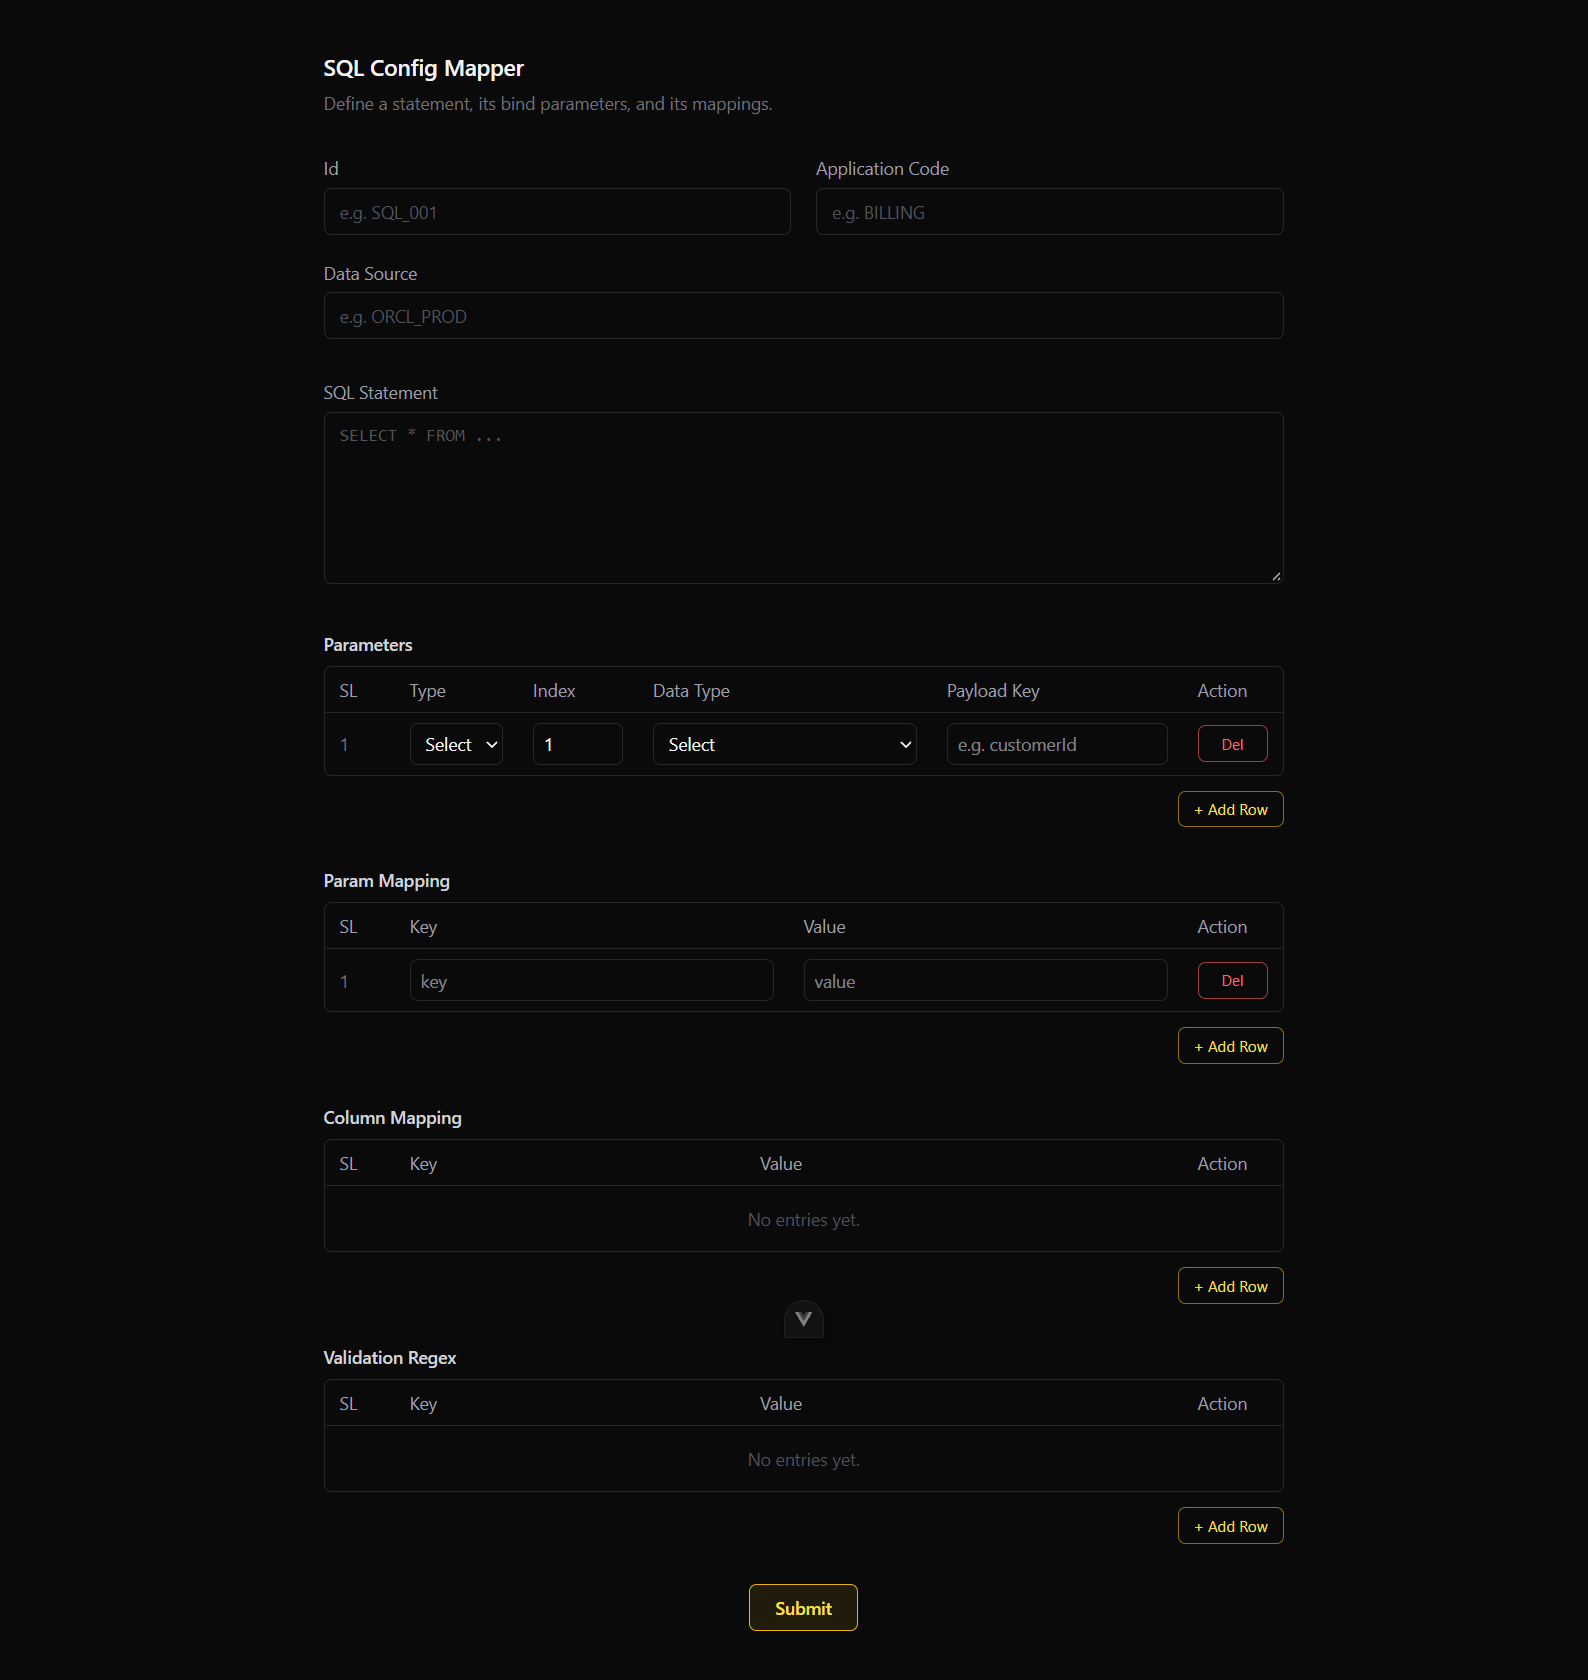
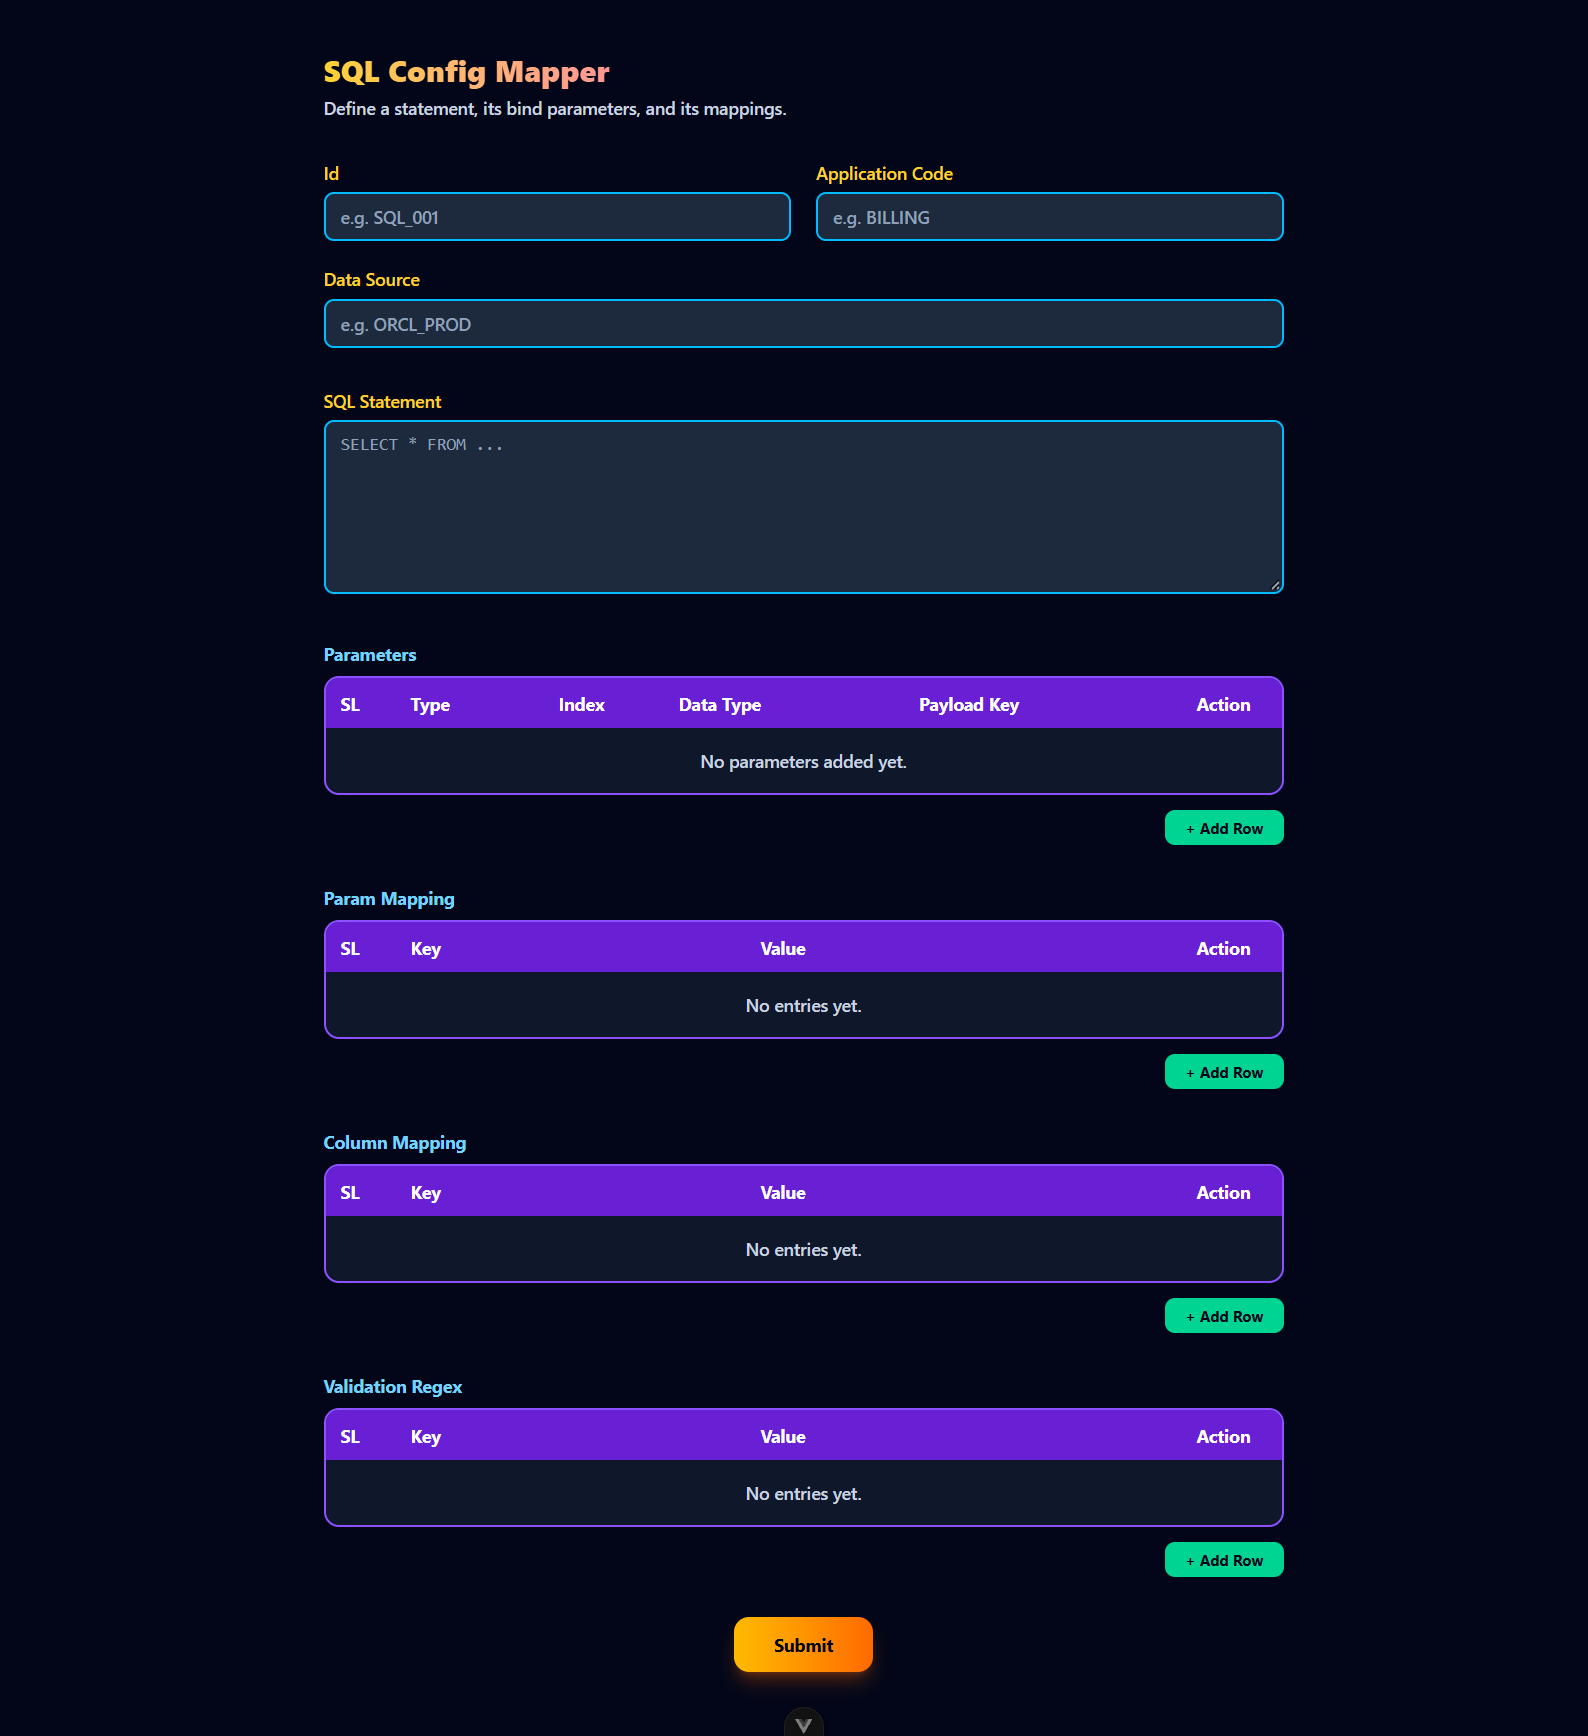
ui: black violet theme

diff --git a/src/components/neo/ParametersTable.vue b/src/components/neo/ParametersTable.vue
@@ -37,34 +37,34 @@ function isDuplicate(name: string) {
 
 <template>
   <div>
-    <div class="overflow-x-auto rounded-md border border-ink-600">
+    <div class="overflow-hidden rounded-xl border-2 border-violet-500 bg-slate-900">
       <table class="w-full border-collapse text-sm">
         <thead>
-          <tr class="border-b border-ink-600 text-left text-zinc-400">
-            <th class="w-14 px-3 py-2 font-normal">SL</th>
-            <th class="px-3 py-2 font-normal">Type</th>
-            <th class="w-24 px-3 py-2 font-normal">Index</th>
-            <th class="px-3 py-2 font-normal">Data Type</th>
-            <th class="px-3 py-2 font-normal">Payload Key</th>
-            <th class="w-20 px-3 py-2 font-normal">Action</th>
+          <tr class="bg-violet-600/80 text-left text-white">
+            <th class="w-14 px-3 py-2.5 font-bold">SL</th>
+            <th class="px-3 py-2.5 font-bold">Type</th>
+            <th class="w-24 px-3 py-2.5 font-bold">Index</th>
+            <th class="px-3 py-2.5 font-bold">Data Type</th>
+            <th class="px-3 py-2.5 font-bold">Payload Key</th>
+            <th class="w-20 px-3 py-2.5 font-bold">Action</th>
           </tr>
         </thead>
         <tbody>
           <tr v-if="!rows.length">
-            <td colspan="6" class="px-3 py-4 text-center text-zinc-600">
+            <td colspan="6" class="px-3 py-4 text-center font-medium text-slate-300">
               No parameters added yet.
             </td>
           </tr>
           <tr
             v-for="(row, i) in rows"
             :key="row._key"
-            class="border-b border-ink-700 last:border-0"
+            class="border-t border-violet-500/40 even:bg-slate-800/60"
           >
-            <td class="px-3 py-2 text-zinc-500">{{ i + 1 }}</td>
+            <td class="px-3 py-2 font-semibold text-sky-300">{{ i + 1 }}</td>
             <td class="px-3 py-2">
               <select
                 v-model="row.type"
-                class="w-full rounded-md border border-ink-600 bg-ink-900 px-2 py-1.5 text-zinc-100 outline-none focus:border-accent-500"
+                class="w-full rounded-lg border-2 border-sky-400 bg-slate-800 px-2 py-1.5 font-medium text-white outline-none transition-all focus:border-amber-300 focus:ring-4 focus:ring-amber-300/30"
               >
                 <option value="" disabled>Select</option>
                 <option v-for="opt in typeOptions" :key="opt.value" :value="opt.value">
@@ -76,13 +76,13 @@ function isDuplicate(name: string) {
               <input
                 v-model.number="row.position"
                 type="number"
-                class="w-full rounded-md border border-ink-600 bg-transparent px-2 py-1.5 text-zinc-100 outline-none focus:border-accent-500"
+                class="w-full rounded-lg border-2 border-sky-400 bg-slate-800 px-2 py-1.5 font-medium text-white outline-none transition-all focus:border-amber-300 focus:ring-4 focus:ring-amber-300/30"
               />
             </td>
             <td class="px-3 py-2">
               <select
                 v-model="row.dataType"
-                class="w-full rounded-md border border-ink-600 bg-ink-900 px-2 py-1.5 text-zinc-100 outline-none focus:border-accent-500"
+                class="w-full rounded-lg border-2 border-sky-400 bg-slate-800 px-2 py-1.5 font-medium text-white outline-none transition-all focus:border-amber-300 focus:ring-4 focus:ring-amber-300/30"
               >
                 <option value="" disabled>Select</option>
                 <option v-for="opt in dataTypeOptions" :key="opt.value" :value="opt.value">
@@ -95,15 +95,19 @@ function isDuplicate(name: string) {
                 v-model="row.name"
                 type="text"
                 placeholder="e.g. customerId"
-                class="w-full rounded-md border bg-transparent px-2 py-1.5 text-zinc-100 outline-none focus:border-accent-500"
-                :class="isDuplicate(row.name) ? 'border-red-400' : 'border-ink-600'"
+                class="w-full rounded-lg border-2 px-2 py-1.5 font-medium text-white placeholder-slate-400 outline-none transition-all"
+                :class="
+                  isDuplicate(row.name)
+                    ? 'border-rose-500 bg-rose-500/20 focus:ring-4 focus:ring-rose-400/30'
+                    : 'border-sky-400 bg-slate-800 focus:border-amber-300 focus:ring-4 focus:ring-amber-300/30'
+                "
               />
             </td>
             <td class="px-3 py-2">
               <button
                 type="button"
                 @click="removeRow(row._key)"
-                class="w-full rounded-md border border-red-400/60 px-2 py-1.5 text-xs text-red-400 transition-colors hover:bg-red-400/10"
+                class="w-full rounded-lg bg-rose-500 px-2 py-1.5 text-xs font-bold text-white transition-colors hover:bg-rose-400"
               >
                 Del
               </button>
@@ -117,13 +121,13 @@ function isDuplicate(name: string) {
       <button
         type="button"
         @click="addRow"
-        class="mt-3 rounded-md border border-accent-500/60 px-3 py-1.5 text-xs text-accent-400 transition-colors hover:bg-accent-500/10 focus-visible:outline-none focus-visible:ring-2 focus-visible:ring-accent-400/60"
+        class="mt-3 rounded-lg bg-emerald-400 px-4 py-1.5 text-xs font-bold text-slate-950 transition-colors hover:bg-emerald-300"
       >
         + Add Row
       </button>
     </div>
 
-    <p v-if="duplicates.length" class="mt-2 text-xs text-red-400">
+    <p v-if="duplicates.length" class="mt-2 text-xs font-bold text-rose-400">
       Duplicate Payload Key(s): {{ duplicates.join(', ') }}
     </p>
   </div>

diff --git a/src/components/neo/KeyValueTable.vue b/src/components/neo/KeyValueTable.vue
@@ -28,35 +28,41 @@ function isDuplicate(key: string) {
 
 <template>
   <div>
-    <h2 class="mb-2 text-sm font-medium text-zinc-300">{{ title }}</h2>
+    <h2 class="mb-2 text-sm font-bold text-sky-300">{{ title }}</h2>
 
-    <div class="overflow-x-auto rounded-md border border-ink-600">
+    <div class="overflow-hidden rounded-xl border-2 border-violet-500 bg-slate-900">
       <table class="w-full border-collapse text-sm">
         <thead>
-          <tr class="border-b border-ink-600 text-left text-zinc-400">
-            <th class="w-14 px-3 py-2 font-normal">SL</th>
-            <th class="px-3 py-2 font-normal">Key</th>
-            <th class="px-3 py-2 font-normal">Value</th>
-            <th class="w-20 px-3 py-2 font-normal">Action</th>
+          <tr class="bg-violet-600/80 text-left text-white">
+            <th class="w-14 px-3 py-2.5 font-bold">SL</th>
+            <th class="px-3 py-2.5 font-bold">Key</th>
+            <th class="px-3 py-2.5 font-bold">Value</th>
+            <th class="w-20 px-3 py-2.5 font-bold">Action</th>
           </tr>
         </thead>
         <tbody>
           <tr v-if="!rows.length">
-            <td colspan="4" class="px-3 py-4 text-center text-zinc-600">No entries yet.</td>
+            <td colspan="4" class="px-3 py-4 text-center font-medium text-slate-300">
+              No entries yet.
+            </td>
           </tr>
           <tr
             v-for="(row, i) in rows"
             :key="row._key"
-            class="border-b border-ink-700 last:border-0"
+            class="border-t border-violet-500/40 even:bg-slate-800/60"
           >
-            <td class="px-3 py-2 text-zinc-500">{{ i + 1 }}</td>
+            <td class="px-3 py-2 font-semibold text-sky-300">{{ i + 1 }}</td>
             <td class="px-3 py-2">
               <input
                 v-model="row.key"
                 type="text"
                 placeholder="key"
-                class="w-full rounded-md border bg-transparent px-2 py-1.5 text-zinc-100 outline-none focus:border-accent-500"
-                :class="isDuplicate(row.key) ? 'border-red-400' : 'border-ink-600'"
+                class="w-full rounded-lg border-2 px-2 py-1.5 font-medium text-white placeholder-slate-400 outline-none transition-all"
+                :class="
+                  isDuplicate(row.key)
+                    ? 'border-rose-500 bg-rose-500/20 focus:ring-4 focus:ring-rose-400/30'
+                    : 'border-sky-400 bg-slate-800 focus:border-amber-300 focus:ring-4 focus:ring-amber-300/30'
+                "
               />
             </td>
             <td class="px-3 py-2">
@@ -64,14 +70,14 @@ function isDuplicate(key: string) {
                 v-model="row.value"
                 type="text"
                 placeholder="value"
-                class="w-full rounded-md border border-ink-600 bg-transparent px-2 py-1.5 text-zinc-100 outline-none focus:border-accent-500"
+                class="w-full rounded-lg border-2 border-sky-400 bg-slate-800 px-2 py-1.5 font-medium text-white placeholder-slate-400 outline-none transition-all focus:border-amber-300 focus:ring-4 focus:ring-amber-300/30"
               />
             </td>
             <td class="px-3 py-2">
               <button
                 type="button"
                 @click="removeRow(row._key)"
-                class="w-full rounded-md border border-red-400/60 px-2 py-1.5 text-xs text-red-400 transition-colors hover:bg-red-400/10"
+                class="w-full rounded-lg bg-rose-500 px-2 py-1.5 text-xs font-bold text-white transition-colors hover:bg-rose-400"
               >
                 Del
               </button>
@@ -85,13 +91,13 @@ function isDuplicate(key: string) {
       <button
         type="button"
         @click="addRow"
-        class="mt-3 rounded-md border border-accent-500/60 px-3 py-1.5 text-xs text-accent-400 transition-colors hover:bg-accent-500/10 focus-visible:outline-none focus-visible:ring-2 focus-visible:ring-accent-400/60"
+        class="mt-3 rounded-lg bg-emerald-400 px-4 py-1.5 text-xs font-bold text-slate-950 transition-colors hover:bg-emerald-300"
       >
         + Add Row
       </button>
     </div>
 
-    <p v-if="duplicates.length" class="mt-2 text-xs text-red-400">
+    <p v-if="duplicates.length" class="mt-2 text-xs font-bold text-rose-400">
       Duplicate Key(s): {{ duplicates.join(', ') }}
     </p>
   </div>

diff --git a/src/components/neo/ResultModal.vue b/src/components/neo/ResultModal.vue
@@ -24,16 +24,18 @@ async function copy() {
 
 <template>
   <div
-    class="fixed inset-0 z-50 flex items-center justify-center bg-black/70 px-4"
+    class="fixed inset-0 z-50 flex items-center justify-center bg-slate-950/80 px-4 backdrop-blur-sm"
     @click.self="emit('close')"
   >
-    <div class="w-full max-w-2xl rounded-lg border border-ink-600 bg-ink-800 shadow-xl">
-      <div class="flex items-center justify-between border-b border-ink-600 px-4 py-3">
-        <h3 class="text-sm font-medium text-zinc-200">Payload sent to server (demo)</h3>
+    <div
+      class="w-full max-w-2xl overflow-hidden rounded-2xl border-2 border-violet-500 bg-slate-900 shadow-2xl shadow-violet-900/50"
+    >
+      <div class="flex items-center justify-between bg-violet-600 px-4 py-3">
+        <h3 class="text-sm font-bold text-white">Payload sent to server (demo)</h3>
         <button
           type="button"
           @click="emit('close')"
-          class="text-zinc-500 transition-colors hover:text-zinc-200"
+          class="rounded-lg px-2 py-1 font-bold text-white transition-colors hover:bg-violet-500"
           aria-label="Close"
         >
           ✕
@@ -41,22 +43,22 @@ async function copy() {
       </div>
 
       <pre
-        class="max-h-[60vh] overflow-auto px-4 py-3 font-mono text-xs leading-relaxed text-accent-300"
+        class="max-h-[60vh] overflow-auto bg-slate-950 px-4 py-3 font-mono text-xs leading-relaxed text-emerald-300"
         >{{ json }}</pre>
 
-      <div class="flex items-center justify-end gap-2 border-t border-ink-600 px-4 py-3">
-        <span v-if="copied" class="text-xs text-accent-400">Copied</span>
+      <div class="flex items-center justify-end gap-2 bg-slate-800 px-4 py-3">
+        <span v-if="copied" class="text-xs font-bold text-emerald-300">Copied!</span>
         <button
           type="button"
           @click="copy"
-          class="rounded-md border border-accent-500/60 px-3 py-1.5 text-xs text-accent-400 transition-colors hover:bg-accent-500/10"
+          class="rounded-lg bg-emerald-400 px-4 py-1.5 text-xs font-bold text-slate-950 transition-colors hover:bg-emerald-300"
         >
           Copy JSON
         </button>
         <button
           type="button"
           @click="emit('close')"
-          class="rounded-md border border-ink-600 px-3 py-1.5 text-xs text-zinc-300 transition-colors hover:bg-ink-700"
+          class="rounded-lg bg-slate-600 px-4 py-1.5 text-xs font-bold text-white transition-colors hover:bg-slate-500"
         >
           Close
         </button>

diff --git a/src/views/ConfigurationView.vue b/src/views/ConfigurationView.vue
@@ -90,11 +90,15 @@ function handleSubmit() {
 </script>
 
 <template>
-  <div class="min-h-screen bg-ink-900 px-4 py-10">
+  <div class="min-h-screen bg-slate-950 px-4 py-10">
     <div class="mx-auto max-w-3xl">
       <header class="mb-8">
-        <h1 class="text-lg font-semibold text-zinc-100">SQL Config Mapper</h1>
-        <p class="mt-1 text-sm text-zinc-500">
+        <h1
+          class="bg-gradient-to-r from-amber-300 via-pink-400 to-violet-400 bg-clip-text text-2xl font-extrabold text-transparent"
+        >
+          SQL Config Mapper
+        </h1>
+        <p class="mt-1 text-sm font-medium text-slate-300">
           Define a statement, its bind parameters, and its mappings.
         </p>
       </header>
@@ -121,7 +125,7 @@ function handleSubmit() {
         </section>
 
         <section>
-          <h2 class="mb-2 text-sm font-medium text-zinc-300">Parameters</h2>
+          <h2 class="mb-2 text-sm font-bold text-sky-300">Parameters</h2>
           <ParametersTable
             v-model="parameters"
             :type-options="paramTypeOptions"
@@ -156,19 +160,19 @@ function handleSubmit() {
 
         <div
           v-if="submitAttempted && validationErrors.length"
-          class="rounded-md border border-red-400/60 bg-red-400/5 px-4 py-3 text-sm text-red-400"
+          class="rounded-xl border-2 border-rose-300 bg-rose-600 px-4 py-3 text-sm text-white"
         >
-          <p class="mb-1 font-medium">Fix the following before submitting:</p>
-          <ul class="list-inside list-disc space-y-0.5">
+          <p class="mb-1 font-bold">Fix the following before submitting:</p>
+          <ul class="list-inside list-disc space-y-0.5 font-medium">
             <li v-for="err in validationErrors" :key="err">{{ err }}</li>
           </ul>
         </div>
 
-        <div class="flex items-center justify-center">
+        <div class="flex items-center justify-center my-3">
           <button
             type="button"
             @click="handleSubmit"
-            class="rounded-md border border-accent-500 bg-accent-500/10 px-5 py-2 text-sm font-medium text-accent-400 transition-colors hover:bg-accent-500/20 focus-visible:outline-none focus-visible:ring-2 focus-visible:ring-accent-400/60"
+            class="rounded-xl bg-gradient-to-r from-amber-400 to-orange-500 px-8 py-3 text-sm font-bold text-slate-950 shadow-lg shadow-orange-500/30 transition hover:brightness-110"
           >
             Submit
           </button>

diff --git a/src/components/neo/FormField.vue b/src/components/neo/FormField.vue
@@ -20,20 +20,20 @@ const model = defineModel<string | number>({ default: '' })
 
 <template>
   <label class="block">
-    <span class="mb-1.5 block text-sm text-zinc-400">{{ label }}</span>
+    <span class="mb-1.5 block text-sm font-semibold text-amber-300">{{ label }}</span>
 
     <textarea
       v-if="type === 'textarea'"
       v-model="model"
       :placeholder="placeholder"
       rows="6"
-      class="w-full resize-y rounded-md border border-ink-600 bg-transparent px-3 py-2 font-mono text-sm text-zinc-100 placeholder-zinc-600 outline-none transition-colors focus:border-accent-500"
+      class="w-full resize-y rounded-lg border-2 border-sky-400 bg-slate-800 px-3 py-2 font-mono text-sm font-medium text-white placeholder-slate-400 outline-none transition-all focus:border-amber-300 focus:ring-4 focus:ring-amber-300/30"
     />
 
     <select
       v-else-if="type === 'select'"
       v-model="model"
-      class="w-full rounded-md border border-ink-600 bg-ink-900 px-3 py-2 text-sm text-zinc-100 outline-none transition-colors focus:border-accent-500"
+      class="w-full rounded-lg border-2 border-sky-400 bg-slate-800 px-3 py-2 text-sm font-medium text-white outline-none transition-all focus:border-amber-300 focus:ring-4 focus:ring-amber-300/30"
     >
       <option value="" disabled>Select</option>
       <option v-for="opt in options" :key="opt.value" :value="opt.value">{{ opt.label }}</option>
@@ -44,7 +44,7 @@ const model = defineModel<string | number>({ default: '' })
       :type="type"
       v-model="model"
       :placeholder="placeholder"
-      class="w-full rounded-md border border-ink-600 bg-transparent px-3 py-2 text-sm text-zinc-100 placeholder-zinc-600 outline-none transition-colors focus:border-accent-500"
+      class="w-full rounded-lg border-2 border-sky-400 bg-slate-800 px-3 py-2 text-sm font-medium text-white placeholder-slate-400 outline-none transition-all focus:border-amber-300 focus:ring-4 focus:ring-amber-300/30"
     />
   </label>
 </template>

diff --git a/src/assets/main.css b/src/assets/main.css
@@ -12,6 +12,12 @@ input[type='number'] {
   appearance: textfield;
 }
 
+button {
+  cursor: pointer;
+}
+
+@apply bg-slate-950 text-white font-sans antialiased;
+
 @theme {
   /* Near-black surfaces, from page background to raised panels */
   --color-ink-950: #000000;
